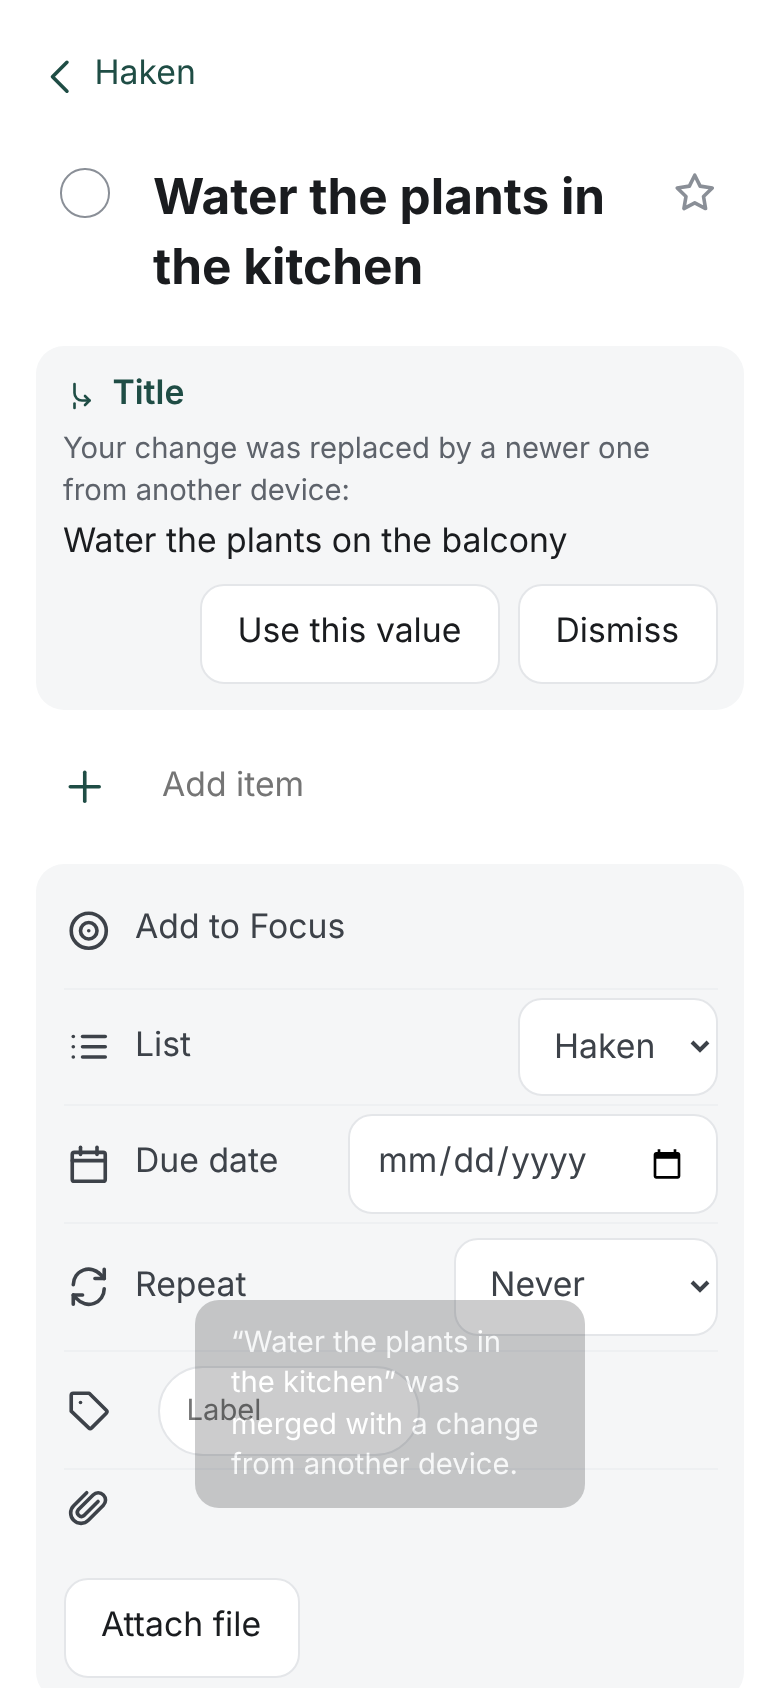
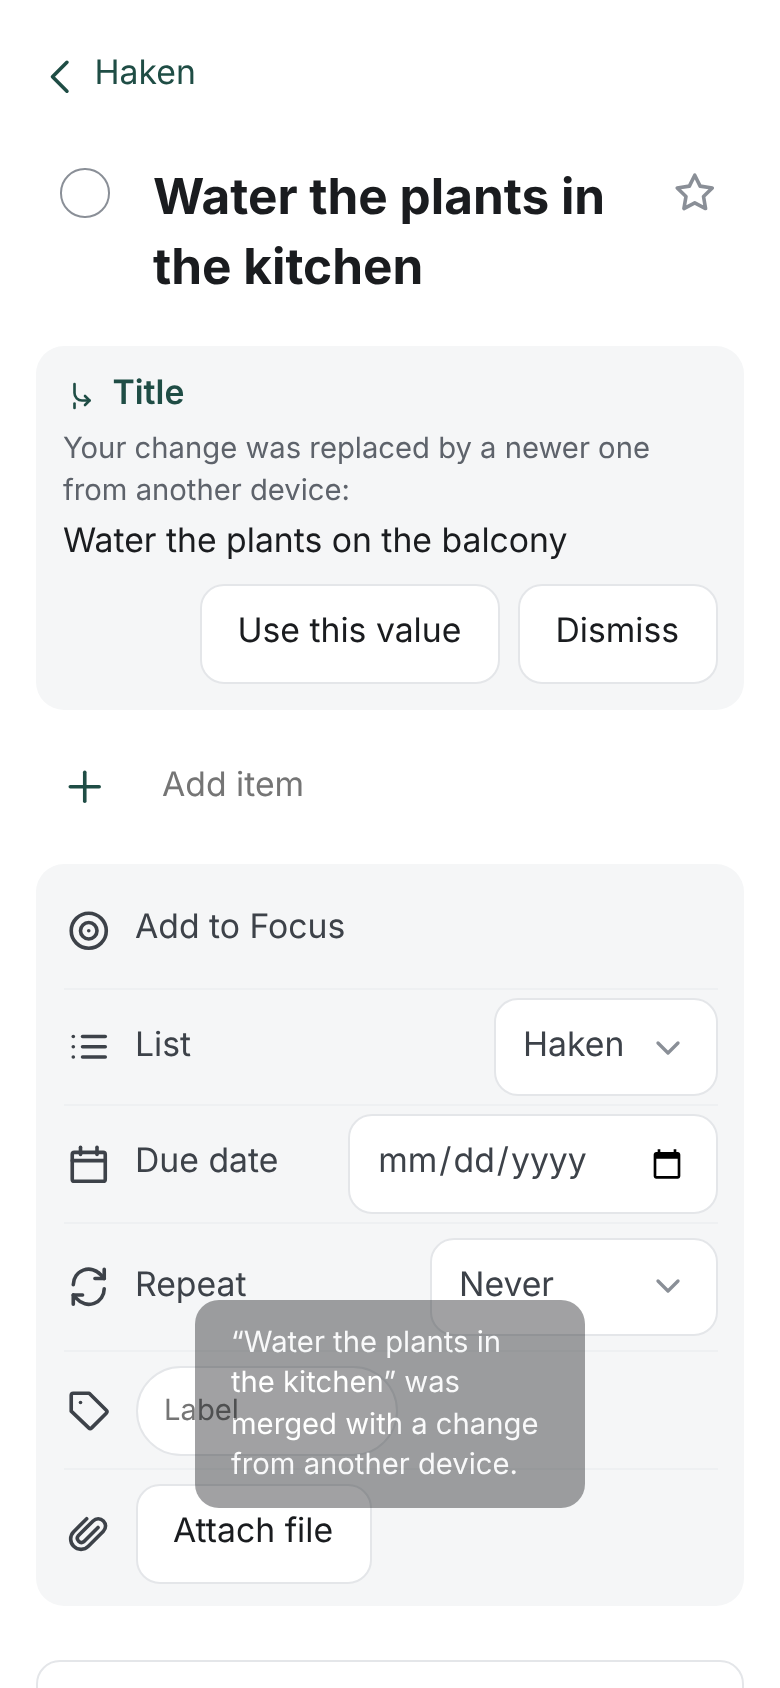
Fix control spacing: own select arrow, aligned rows
- select: appearance none + one chevron SVG, same on every platform.
- Weekdays: seven equal columns over the full row (≥ 44 px each).
- Empty label/attachment lists take no space, so the field and the
  Attach file button sit on their icon's line.
- Legends without default padding; settings card actions start left.

Claude-Session: https://claude.ai/code/session_01L1VAnHJ3d8s3FPkbEAGtBR

diff --git a/web/styles/app.css b/web/styles/app.css
@@ -165,6 +165,19 @@ a {
   background: var(--bg);
 }
 
+/*
+ * Own select arrow: native arrows sit and scale differently per platform.
+ * One grey for both schemes (≥ 3:1 on --bg light and dark).
+ */
+select {
+  appearance: none;
+  padding-inline-end: 2.5rem;
+  background-image: url("select-arrow.svg");
+  background-repeat: no-repeat;
+  background-position: right 0.75rem center;
+  background-size: 1.125rem;
+}
+
 input[type="color"] {
   width: 2.75rem;
   height: 2.75rem;
@@ -794,6 +807,12 @@ haken-task {
   flex-basis: 100%;
 }
 
+/* Nothing in it: no empty item and no extra gap beside the icon. */
+.chips:empty,
+.attachments:empty {
+  display: none;
+}
+
 .chip-remove {
   display: inline-grid;
   place-items: center;
@@ -954,7 +973,13 @@ haken-task {
   background: var(--surface-2);
 }
 
+legend {
+  padding: 0;
+}
+
 .segmented legend {
+  /* Undo the track's inset: the legend aligns with the other labels. */
+  margin-inline-start: -0.1875rem;
   margin-bottom: 0.375rem;
   color: var(--text-muted);
   font-size: 0.8125rem;
@@ -1011,6 +1036,11 @@ haken-task {
   flex-wrap: wrap;
   justify-content: flex-end;
   gap: 0.5rem;
+}
+
+/* In a settings card, actions line up with the card's other content. */
+.card .actions {
+  justify-content: flex-start;
 }
 
 .stacked-actions {
@@ -1170,12 +1200,17 @@ haken-setup {
   background: var(--bg);
 }
 
+/*
+ * Seven equal columns: the week never wraps into a lone Sunday. It spans the
+ * row's full width (out of the 2rem indent) so each day stays ≥ 44 px wide
+ * on a 390 px phone.
+ */
 .weekdays {
-  display: flex;
-  flex-basis: 100%;
-  flex-wrap: wrap;
-  gap: 0.375rem;
-  margin: 0;
+  display: grid;
+  grid-template-columns: repeat(7, minmax(0, 1fr));
+  flex-basis: calc(100% + 2rem);
+  gap: 2px;
+  margin: 0 0 0 -2rem;
   padding: 0;
   border: 0;
 }
@@ -1199,9 +1234,7 @@ haken-setup {
 .weekday span {
   display: grid;
   place-items: center;
-  min-width: 2.75rem;
   min-height: 2.75rem;
-  padding: 0 0.5rem;
   border-radius: 999px;
   background: var(--surface-2);
   color: var(--text-2);

diff --git a/docs/arc42/08-crosscutting-concepts.md b/docs/arc42/08-crosscutting-concepts.md
@@ -12,7 +12,7 @@ This chapter is the binding reference. The [sketches](sketches/README.md) illust
 - System font stack (`system-ui, -apple-system, "Segoe UI", Roboto, sans-serif`). No web fonts.
 - Icons are own inline stroke SVGs: `viewBox="0 0 24 24"`, stroke 1.75, round caps and joins, `currentColor`. No emoji.
 - Touch targets are at least 44 × 44 px. On touch screens (`pointer: coarse`) every size is one step larger (see Design tokens). Text contrast is at least 4.5:1 in both schemes.
-- Semantic HTML: real `<button>`, `<a href>`, `<input>` + `<label>`, `<select>`, `<fieldset>`. Icon-only buttons carry `aria-label`; decorative SVGs carry `aria-hidden="true"`.
+- Semantic HTML: real `<button>`, `<a href>`, `<input>` + `<label>`, `<select>`, `<fieldset>`. Icon-only buttons carry `aria-label`; decorative SVGs carry `aria-hidden="true"`. `<select>` has `appearance: none` and one chevron (`styles/select-arrow.svg`, `#8A8F97`, ≥ 3:1 in both schemes), so the arrow sits the same on every platform.
 - All copy comes from message keys ([i18n](adr/ADR-20261103-i18n-json-messages.md)). The German strings in the sketches are examples.
 
 ### Screens

diff --git a/CHANGELOG.md b/CHANGELOG.md
@@ -11,6 +11,11 @@ versions: [Semantic Versioning](https://semver.org/). Releasing is described in
 - Larger text and spacing on touch screens.
 - Drag a task or list by the whole row (touch: hold first); rows slide aside to show where it lands. Alt+↑/↓ moves the focused row.
 
+### Fixed
+
+- Drop-down arrows sit at the same place on every platform.
+- Weekdays of a custom repeat stay on one line; the *Attach file* button and the label field line up with their icons; theme label and settings buttons align with the other content.
+
 ### Removed
 
 - Long-press and right-click actions on task rows; *Add to Focus* and *Move to list* stay on the task screen.
